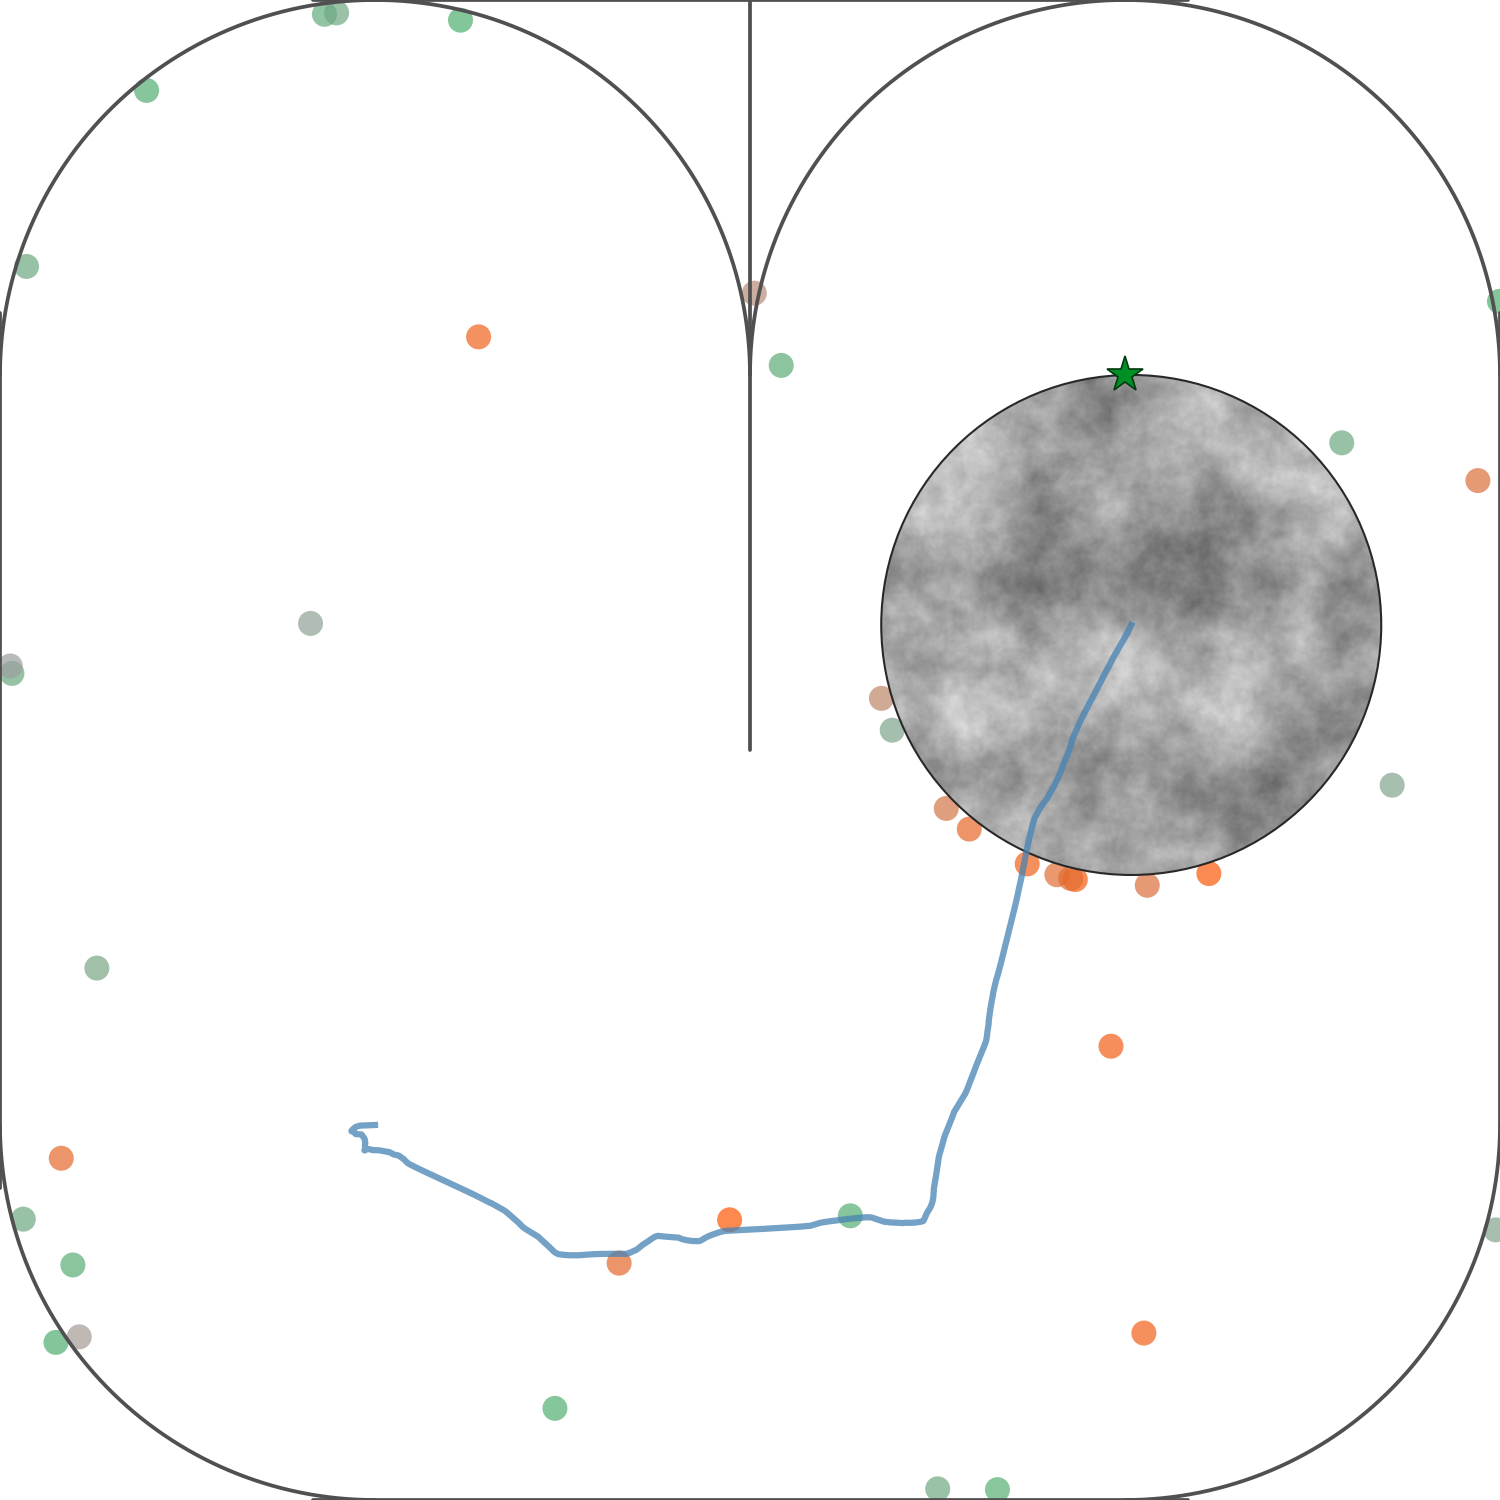
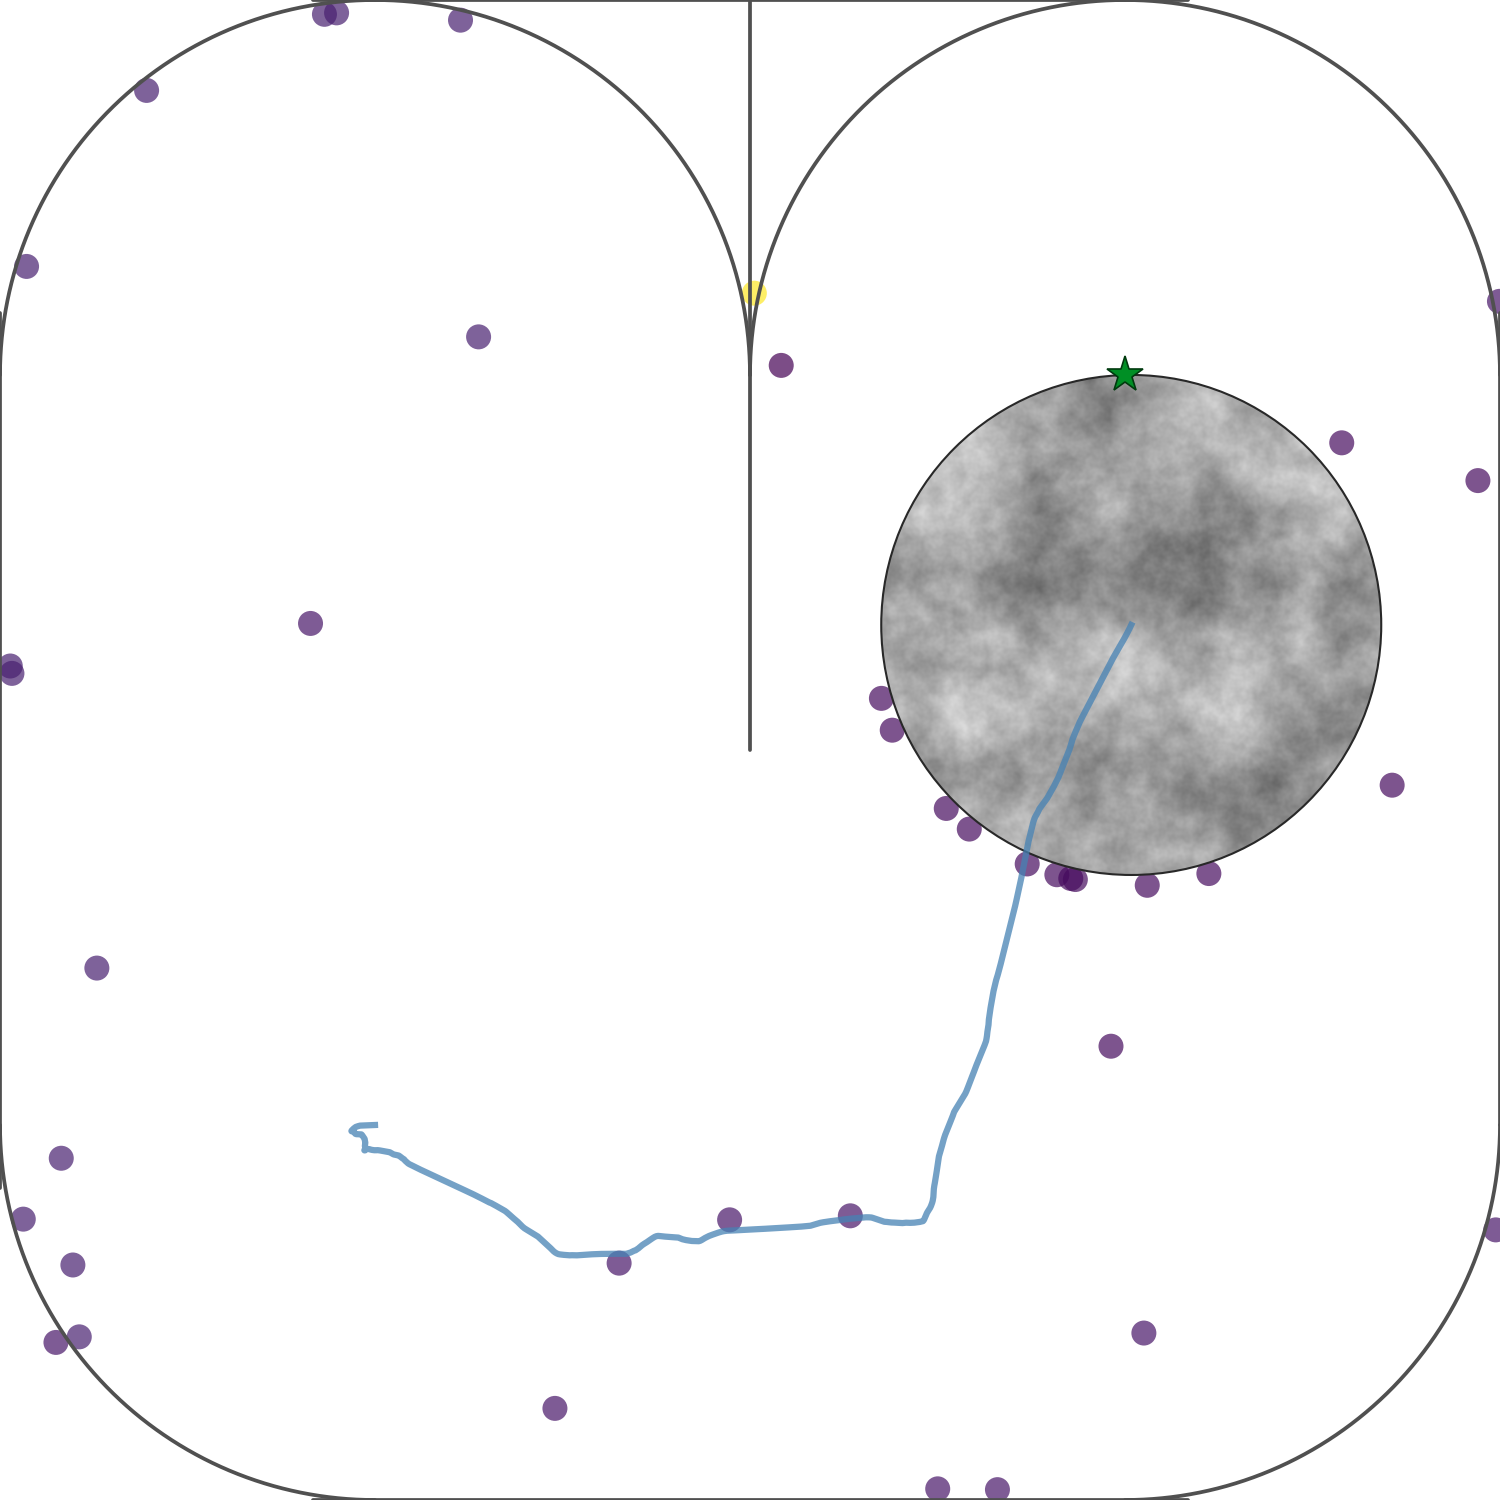
fig6a-c viridis score map

diff --git a/figures/fig6/abc/render_final_frame.py b/figures/fig6/abc/render_final_frame.py
@@ -5,7 +5,6 @@ walls, and the goal marker. Much faster than rendering a full video because
 only the last frame of particle data is read from disk.
 """
 
-import colorsys
 import os
 import time
 
@@ -18,7 +17,7 @@ import numpy as np
 _HERE            = os.path.dirname(os.path.abspath(__file__))
 SOURCE_FILE      = os.path.join(_HERE, "maze_G5_run1.npz")
 OUTPUT_IMAGE     = os.path.join(_HERE, "maze_G5_run1.png")
-COLOR_BY_SCORE   = False   # True = rainbow by score, False = curvity blue/red
+COLOR_BY_SCORE   = True   # True = viridis by score, False = curvity blue/red
 DRAW_OPENED_WALL = False   # True = draw red line where shortcut wall was removed
 DRAW_SCORE_EDGES = False    # True = draw one directed edge per particle (score graph)
 VIEW_RANGE       = 90.0    # Particle observation range r; overridden by NPZ if stored
@@ -237,8 +236,7 @@ def curvity_color(c):
 
 
 def score_color(s):
-    hue = (0.75 + (float(s) % 50) / 50.0) % 1.0
-    return colorsys.hsv_to_rgb(hue, 1.0, 1.0)
+    return plt.get_cmap('viridis')(min(max(float(s), 0.0) / 35.0, 1.0))[:3]
 
 
 PAYLOAD_COLOR  = '#737BA8'
